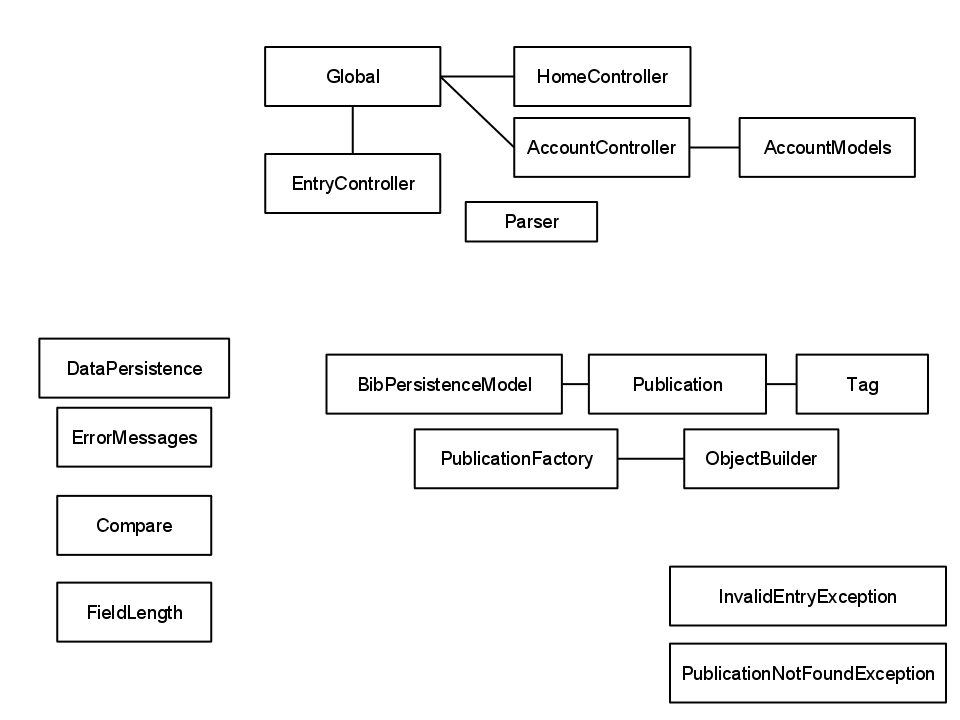
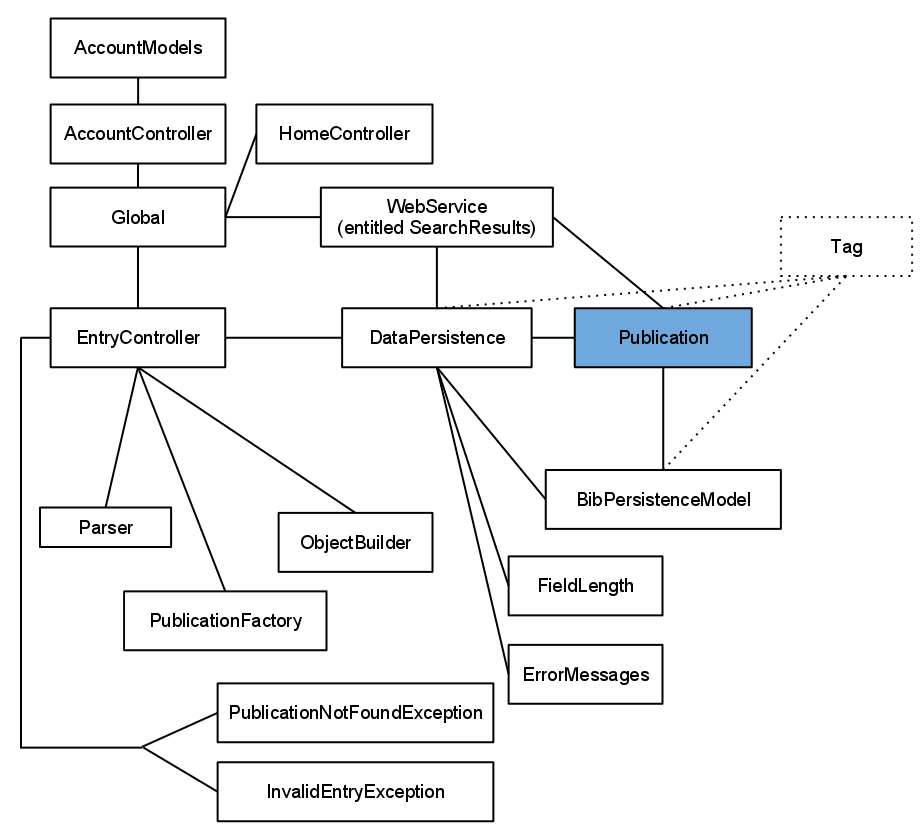
Updated OverallClassDiagram Moved impl detail to impl section

diff --git a/Dissertation/design.tex b/Dissertation/design.tex
@@ -45,7 +45,7 @@ An \gls{oo} approach was taken with the project, as the entries that were to be 
 		\includegraphics
 			[scale=0.45]
 			{images/OverallClassDiagram.png}
-		\caption{UML Class Diagram of the whole solution}
+		\caption{UML Class Diagram showing all classes}
 		\label{fig:OverallClassDiagram}
 	\end{center}
 \end{figure}
@@ -99,21 +99,12 @@ The initial class design consisted of one class per entry type (see Figure \ref{
 
 Each entry type was a subclass of the abstract superclass \texttt{Publication}, which contained fields common to all entry types, namely: Id, an int identifier; CiteKey, a string intended to be unique to an entry, but not usable as an identifier in the database, allowing duplicate entries to exist in the system; Owner, the username of the user who created the entry in the first instance; along with Abstract, a string field which was to be optional to all entries.
 
-As the class was designated `abstract', the enforcement of rules associated with the concept were used to the advantage of the developer: several methods, which were to be relied on and required by the controller classes, were added as abstract methods to the Publication class.  These abstract methods included two methods which converted an entry to a string representing the entry as a row in a \gls{html} table, both with and without hyperlinks to the amendment page for the entry.
+As the class was designated `abstract', the enforcement of rules associated with the concept\footnote{Designating a class `abstract' means that an instance of it cannot be directly created, but an inheriting concrete (antonym of abstract) can be instantiated.} were used to the advantage of the developer: several methods, which were to be relied on and required by the controller classes, were added as abstract methods to the Publication class.  These abstract methods included two methods which converted an entry to a string representing the entry as a row in a \gls{html} table, both with and without hyperlinks to the amendment page for the entry.
 
-\revisit - this is implementation detail. Possibly going into too much information here, along with the discussion of the source code!
-
-Each entry type class was used directly by NHibernate and mapped by way of a Mapping class 
-
-\revisit - this is implementation detail. Possibly going into too much information here, along with the discussion of the source code!
-
-An examination of the source code\footnote{If one inspects the code for the \gls{svn} tag entitled V0.34\_Colombia, one will find that the \texttt{Publication} class contains a line commented out containing a member variable entitled (and of type) \texttt{PublicationGroup}.  This approach was not followed up, as discussed} reveals early intentions to include \texttt{PublicationGroup} as a field within \texttt{Publication}.  \texttt{PublicationGroup} was intended to be a recursively-defined structure, to allow a group to be categorised as part of a tree-based structure.  This approach was abandoned following advice from Gregg O'Malley, following his experience of trying to use very similar structures previously; his suggestion to follow a tag-based approach was noted but not acted upon until late stages of the project (see below in Section \ref{designDiscovery}).
-
-The major problem with this approach was that when it was mapped to the database by NHibernate, it resulted in one table per entry type --- 14 entry type tables in total.  The number of tables that resulted was not the greatest issue with this approach: the most important issue lay in the assignment of identifiers to each row and the storage of entries.  To be able to know where to find an entry without first performing a search, the system had to know which entry type the entry was, along with what the identifier of the entry was, as each of the entries was a weak entity.  Due to the lack of database-level guarantee that a \texttt{Publication}'s id was a unique identifier for an entry, a large refactoring took place to move all fields to one top-level table, \texttt{Publication}, as discussed in Section \ref{designChallenger}.
 
 \subsection{Second model: V1.0 - Challenger}
 \label{designChallenger}
-The Challenger model was the model adopted in the final version of the product.  This is the model that is discussed during the implementation chapter (Chapter~\ref{impl}).
+The Challenger model was the model adopted in the final (deployed) version of the product.  This is the model that is discussed during the implementation chapter (Chapter~\ref{impl}).
 
 Columbia's design presented a few problems for development and performance on the system, as was discovered after implementation:
 \begin{enumerate}
